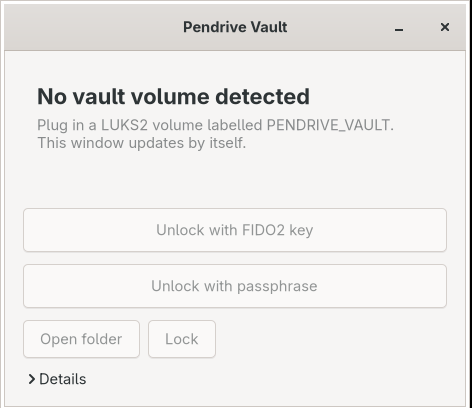
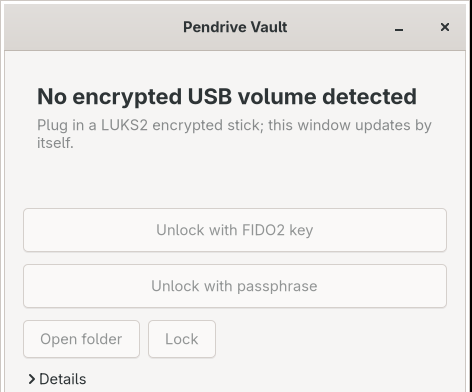
Let the user pick and add any LUKS2 USB volume from the UI
First-run flow, as requested: the drop-down now lists every LUKS2 volume on a
USB disk, whether or not it carries the marker label. Unmanaged volumes are
marked 'not added' and replace the unlock buttons with a single 'Add this
volume' button; adding remembers the UUID in the root-owned
/etc/pendrive-vault.volumes, so nothing on the stick is modified.

Helper:
- split discovery into is_candidate (USB + LUKS2 + not the root disk, cheap
  device checks first so internal disks are never read) and is_managed
  (MARKER label, UUID= pin, or the volumes file);
- new adopt action with the same validation as unlocking; it grants no access
  by itself;
- list now returns a fifth field, the managed flag;
- unlocking requires managed + candidate, with a distinct ERR:not-managed 25.

GUI: managed flag, 'not added' suffix in the drop-down, Add button, updated
empty state, and a fresh screenshot since the wording changed.

Tests cover adopt's malformed-uuid and unknown-volume guards; README, SECURITY,
HOW-IT-WORKS and CHANGELOG describe the new model.

diff --git a/README.md b/README.md
@@ -51,11 +51,11 @@ helper that runs the privileged bits.
 
 ## Features
 
-* **Volume discovery** — no UUID baked in: every USB LUKS2 partition whose
-  LUKS2 label is `PENDRIVE_VAULT` is offered, automatically, as it is plugged
-  in.
-* **Several volumes at once** — a selector appears when more than one is
-  attached.
+* **Pick your volume in the UI** — every encrypted USB stick shows up in a
+  drop-down, labelled or not; the first time you use one, add it with a single
+  click and it is remembered. No UUID is baked into the code.
+* **Several volumes at once** — the drop-down appears whenever more than one
+  is attached, and each keeps its own state.
 * Unlock with a **FIDO2 key**: FIDO2 PIN + physical touch, via
   `systemd-fido2` LUKS2 tokens (hmac-secret is never re-implemented).
 * Unlock with the **passphrase** keyslot, for when the key is not at hand.
@@ -110,11 +110,19 @@ cd pendrive-vault
 sudo ./install.sh
 ```
 
-Then mark the volumes you want it to manage — this writes only the LUKS2 label
-in the header — no re-encryption, and the encrypted payload is untouched:
+Then plug the stick in and launch the app: it lists every LUKS2 USB volume it
+can see, and offers **Add this volume** for the one you want it to manage. The
+choice is stored in `/etc/pendrive-vault.volumes`; nothing on the stick is
+modified.
+
+Two equivalent alternatives, if you prefer to set it up ahead of time:
 
 ```bash
+# mark the volume itself (header metadata only, no re-encryption)
 sudo cryptsetup config --label PENDRIVE_VAULT /dev/sdb2
+
+# or pin one specific volume in the config
+sudo ./install.sh --uuid <uuid>
 ```
 
 Launch **Pendrive Vault** from the application menu, or run `pendrive-vault`.
@@ -157,7 +165,10 @@ sudo cryptsetup luksDump /dev/sdb2 | sed -n '/Tokens:/,$p'
 | **Details** | live cryptsetup output, for troubleshooting |
 
 The state reloads itself every 1.5 s, so plugging a volume in or out needs no
-interaction. With several volumes attached, pick one in the drop-down.
+interaction. With several attached, pick one in the drop-down; if the selected
+volume has never been used with Pendrive Vault, the window offers
+**Add this volume** instead of the unlock buttons, and remembers it from then
+on (edit `/etc/pendrive-vault.volumes` as root to forget one).
 
 The mount point is `/run/media/<user>/<filesystem-label>` (so a FAT32 label
 `DATA` gives `/run/media/<user>/DATA`), falling back to `VAULT` when the
@@ -209,10 +220,10 @@ The helper is not a generic root tool. It:
 * reads a **root-owned** config (`/etc/pendrive-vault.conf`), so an unprivileged
   user cannot point it at another device;
 * accepts only a UUID argument and then re-validates it: must be a block
-  device, LUKS2, labelled with `MARKER`, on a USB disk, and must not hold the
-  running root filesystem;
-* offers only four actions (`list`, `unlock-fido2`, `unlock-passphrase`,
-  `lock`);
+  device, LUKS2, on a USB disk, not hold the running root filesystem, and be
+  managed (label, `UUID=` pin, or added from the UI);
+* offers only five actions (`list`, `adopt`, `unlock-fido2`,
+  `unlock-passphrase`, `lock`);
 * takes secrets on **stdin**, never on the command line.
 
 ## Configuration
@@ -224,6 +235,10 @@ The helper is not a generic root tool. It:
 | `MARKER` | LUKS2 label that identifies managed volumes (default `PENDRIVE_VAULT`) |
 | `UUID` | optional; restrict management to one specific volume |
 | `MOUNT_NAME` | optional; force the folder name under `/run/media/<user>/` |
+
+Volumes added from the UI are listed one per line in
+`/etc/pendrive-vault.volumes` (root-owned). A volume is managed when it has the
+`MARKER` label, is pinned by `UUID=`, or appears in that file.
 
 ## Security model
 

diff --git a/docs/HOW-IT-WORKS.md b/docs/HOW-IT-WORKS.md
@@ -32,25 +32,39 @@ The GUI never touches a block device and never mounts anything itself.
 ## Discovery
 
 1. The GUI probes `lsblk` (unprivileged) only to notice plug/unplug events.
-2. The helper enumerates partitions with `FSTYPE=crypto_LUKS` and keeps those
-   that pass **all** of these checks:
+2. The helper enumerates partitions with `FSTYPE=crypto_LUKS` and keeps the
+   **candidates** that pass the device-side checks:
 
    * it is a block device with a UUID,
-   * `cryptsetup isLuks` succeeds and `Version:` is `2`,
-   * the LUKS2 `Label:` equals `MARKER` (default `PENDRIVE_VAULT`),
    * its parent disk has `TRAN=usb`,
-   * the disk does not hold the running root filesystem.
+   * the disk does not hold the running root filesystem,
+   * `cryptsetup isLuks` succeeds and `Version:` is `2`.
 
-3. Each match is reported as `<uuid>\t<device>\t<state>\t<mountpoint>` and the
-   GUI renders the list. With one volume the selector is hidden.
+3. A candidate is **managed** when any of these hold:
+
+   * its LUKS2 `Label:` equals `MARKER` (default `PENDRIVE_VAULT`),
+   * its UUID is pinned in `/etc/pendrive-vault.conf` (`UUID=`),
+   * its UUID is listed in `/etc/pendrive-vault.volumes`, the file the GUI
+     writes through the `adopt` action when the user clicks **Add this
+     volume**.
+
+4. Each candidate is reported as
+   `<uuid>\t<device>\t<state>\t<mountpoint>\t<managed>` and the GUI renders
+   the list, marking unmanaged ones with "not added" and offering the Add
+   button instead of the unlock buttons.
+
+Unlocking requires *managed* **and** candidate: `ERR:not-managed 25` is
+returned for a volume the user has not added, `ERR:not-a-vault 23` for
+something that is not a LUKS2 USB volume at all.
 
 Why the helper and not the GUI? Reading a LUKS2 header needs root. Doing the
 detection inside the privileged process also means the GUI cannot *choose* an
 arbitrary device: it can only name a UUID, and the helper re-validates it on
-every call.
+every call. `adopt` therefore only accepts devices that already pass the
+candidate checks, and it grants no access by itself.
 
-Note that the label is a **selector, not an authenticator** — anyone can label
-a LUKS2 volume `PENDRIVE_VAULT`. Access is still gated by the keyslots.
+Neither the label nor the list authenticates anything — both are selectors.
+Access is always gated by the keyslots.
 
 ## Unlocking with a passphrase
 
@@ -140,7 +154,8 @@ mount -o uid=<caller>,gid=<caller>,umask=077 /dev/mapper/pv-<uuid8> /run/media/<
 
 | Helper output | Meaning |
 |---|---|
-| `ERR:not-a-vault 23` | label/format/USB/root-disk validation failed |
+| `ERR:not-a-vault 23` | not LUKS2, not on USB, or on the root disk |
+| `ERR:not-managed 25` | the volume has not been added to Pendrive Vault |
 | `ERR:device-not-found 10` | the volume is not plugged in |
 | `ERR:already-unlocked 11` | a mapping for this UUID exists; use Lock |
 | `ERR:fido2-failed 12` | PIN rejected, key not touched, or key removed |

diff --git a/SECURITY.md b/SECURITY.md
@@ -32,8 +32,12 @@ The helper is intentionally not generic:
 * the only input is a volume UUID, and the helper re-validates it on every
   call: block device, LUKS2, LUKS2 label equal to `MARKER`, on a USB disk, and
   not the disk holding `/`;
-* only four actions exist: `list`, `unlock-fido2`, `unlock-passphrase`,
-  `lock`;
+* only five actions exist: `list`, `adopt`, `unlock-fido2`,
+  `unlock-passphrase`, `lock`;
+* `adopt` can only add a volume that already passes the USB/LUKS2/root-disk
+  checks to the root-owned `/etc/pendrive-vault.volumes` list. It grants no
+  access by itself — unlocking still needs the key or the passphrase — it only
+  says "this device may be offered in the UI";
 * it mounts with `umask=077` and ownership of the calling user;
 * the mount point is derived from the inner filesystem label with a
   conservative character set (leading dots stripped), and it refuses to mount

diff --git a/CHANGELOG.md b/CHANGELOG.md
@@ -6,6 +6,15 @@ All notable changes to this project are documented here. The format follows
 
 ## [Unreleased]
 
+### Added
+
+- The drop-down now lists **every** LUKS2 USB volume, labelled or not, so a
+  fresh stick can be picked and added from the UI with one click ("Add this
+  volume"). The choice is remembered in `/etc/pendrive-vault.volumes`; the
+  volume itself is not modified.
+- `adopt` action in the helper, with the same USB/LUKS2/root-disk validation as
+  unlocking.
+
 ### Fixed
 
 - A `cryptsetup` that never returns (seen with a PIN shorter than the token's
